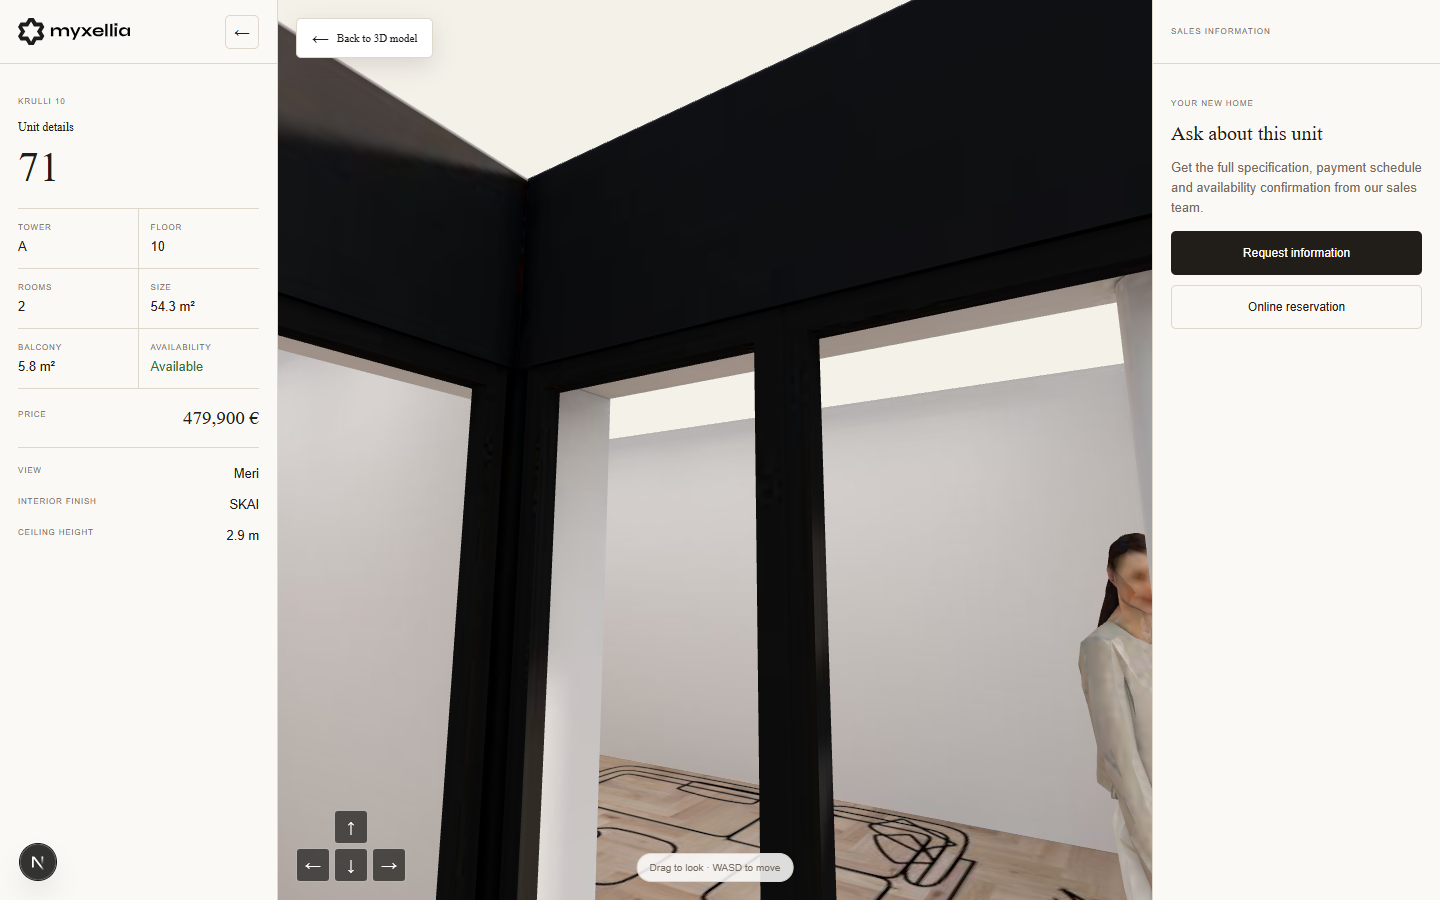
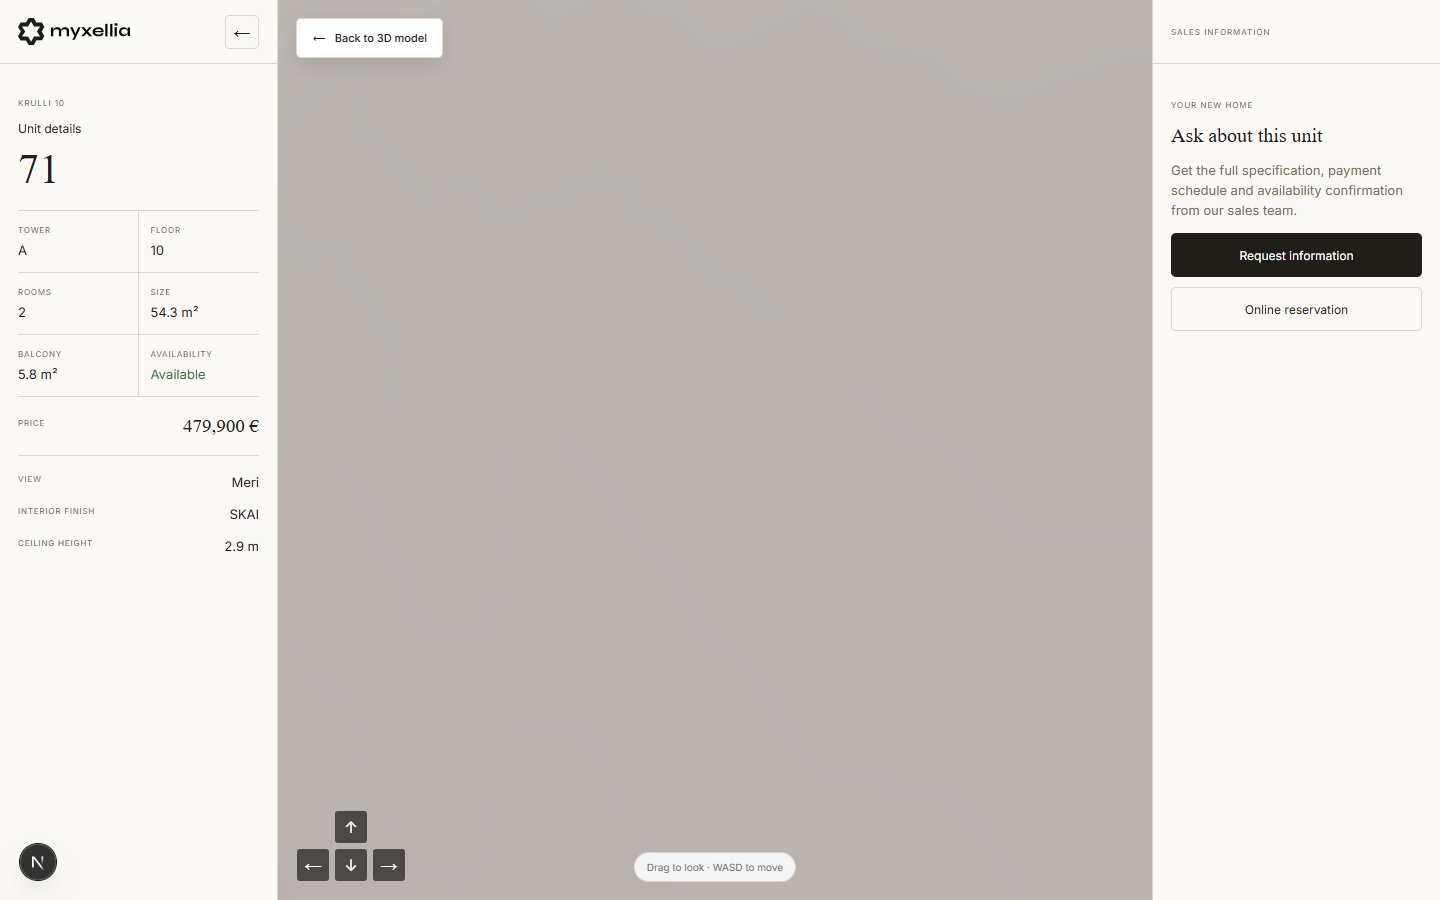
improved floor navigation

diff --git a/components/unit-model/UnitModelViewer.tsx b/components/unit-model/UnitModelViewer.tsx
@@ -175,7 +175,9 @@ export function UnitModelViewer({ asset }: { asset: UnitAsset }) {
 
     const pressed = new Set<string>();
     const collisionMeshes: THREE.Mesh[] = [];
+    const walkSurfaceMeshes: THREE.Mesh[] = [];
     const raycaster = new THREE.Raycaster();
+    const pointer = new THREE.Vector2();
     const clock = new THREE.Clock();
     const overviewPosition = new THREE.Vector3();
     const overviewTarget = new THREE.Vector3();
@@ -183,12 +185,28 @@ export function UnitModelViewer({ asset }: { asset: UnitAsset }) {
     const tourLookTarget = new THREE.Vector3();
     const modelCenter = new THREE.Vector3();
     const modelBounds = new THREE.Box3();
+    const destinationRing = new THREE.Mesh(
+      new THREE.RingGeometry(0.21, 0.3, 48),
+      new THREE.MeshBasicMaterial({ color: 0xffffff, transparent: true, opacity: 1, side: THREE.DoubleSide, depthTest: false, depthWrite: false, toneMapped: false }),
+    );
+    destinationRing.rotation.x = -Math.PI / 2;
+    destinationRing.renderOrder = 20;
+    destinationRing.visible = false;
+    scene.add(destinationRing);
     let tourEnabled = false;
     let yaw = 0;
     let pitch = 0;
     let dragging = false;
+    let pointerMoved = false;
     let pointerX = 0;
     let pointerY = 0;
+    let pointerDownX = 0;
+    let pointerDownY = 0;
+    let traveling = false;
+    let travelStartedAt = 0;
+    let travelDuration = 0;
+    const travelFrom = new THREE.Vector3();
+    const travelTo = new THREE.Vector3();
 
     const updateTourRotation = () => {
       camera.rotation.order = "YXZ";
@@ -209,6 +227,8 @@ export function UnitModelViewer({ asset }: { asset: UnitAsset }) {
       const direction = keyDirection(event.key);
       if (!direction) return;
       event.preventDefault();
+      traveling = false;
+      destinationRing.visible = false;
       pressed.add(direction);
     };
     const onKeyUp = (event: KeyboardEvent) => {
@@ -218,12 +238,42 @@ export function UnitModelViewer({ asset }: { asset: UnitAsset }) {
     const onPointerDown = (event: PointerEvent) => {
       if (!tourEnabled) return;
       dragging = true;
+      pointerMoved = false;
       pointerX = event.clientX;
       pointerY = event.clientY;
+      pointerDownX = event.clientX;
+      pointerDownY = event.clientY;
       renderer.domElement.setPointerCapture(event.pointerId);
     };
+    const floorPointAt = (event: PointerEvent) => {
+      const bounds = renderer.domElement.getBoundingClientRect();
+      pointer.set(((event.clientX - bounds.left) / bounds.width) * 2 - 1, -((event.clientY - bounds.top) / bounds.height) * 2 + 1);
+      raycaster.setFromCamera(pointer, camera);
+      const normalMatrix = new THREE.Matrix3();
+      const hit = raycaster.intersectObjects(walkSurfaceMeshes, false)[0];
+      if (!hit?.face) return undefined;
+      normalMatrix.getNormalMatrix(hit.object.matrixWorld);
+      const normal = hit.face.normal.clone().applyMatrix3(normalMatrix).normalize();
+      const namedFloor = /(floor|tiles)/i.test(hit.object.name);
+      const nearFloorLevel = hit.point.y <= modelBounds.min.y + 0.35;
+      return normal.y > 0.65 && (namedFloor || nearFloorLevel) ? hit.point : undefined;
+    };
+    const updateFloorDestination = (event: PointerEvent) => {
+      const point = floorPointAt(event);
+      destinationRing.visible = Boolean(point);
+      renderer.domElement.style.cursor = point ? "pointer" : "grab";
+      if (point) destinationRing.position.set(point.x, point.y + 0.018, point.z);
+      return point;
+    };
     const onPointerMove = (event: PointerEvent) => {
-      if (!tourEnabled || !dragging) return;
+      if (!tourEnabled) return;
+      if (!dragging) {
+        updateFloorDestination(event);
+        return;
+      }
+      if (Math.hypot(event.clientX - pointerDownX, event.clientY - pointerDownY) > 5) pointerMoved = true;
+      destinationRing.visible = false;
+      renderer.domElement.style.cursor = "grabbing";
       yaw -= (event.clientX - pointerX) * 0.004;
       pitch -= (event.clientY - pointerY) * 0.003;
       pitch = THREE.MathUtils.clamp(pitch, -Math.PI * 0.47, Math.PI * 0.47);
@@ -232,8 +282,30 @@ export function UnitModelViewer({ asset }: { asset: UnitAsset }) {
       updateTourRotation();
     };
     const onPointerUp = (event: PointerEvent) => {
+      const shouldTravel = tourEnabled && !pointerMoved && event.button === 0;
       dragging = false;
       if (renderer.domElement.hasPointerCapture(event.pointerId)) renderer.domElement.releasePointerCapture(event.pointerId);
+      if (!shouldTravel) {
+        updateFloorDestination(event);
+        return;
+      }
+      const point = updateFloorDestination(event);
+      if (!point) return;
+      pressed.clear();
+      travelFrom.copy(camera.position);
+      travelTo.set(
+        THREE.MathUtils.lerp(travelFrom.x, point.x, 0.8),
+        point.y + 1.62,
+        THREE.MathUtils.lerp(travelFrom.z, point.z, 0.8),
+      );
+      const distance = travelFrom.distanceTo(travelTo);
+      if (distance < 0.25) return;
+      travelDuration = THREE.MathUtils.clamp(distance / 3, 0.38, 1.05) * 1000;
+      travelStartedAt = performance.now();
+      traveling = true;
+    };
+    const onPointerLeave = () => {
+      if (!dragging) destinationRing.visible = false;
     };
 
     window.addEventListener("keydown", onKeyDown);
@@ -242,6 +314,7 @@ export function UnitModelViewer({ asset }: { asset: UnitAsset }) {
     renderer.domElement.addEventListener("pointermove", onPointerMove);
     renderer.domElement.addEventListener("pointerup", onPointerUp);
     renderer.domElement.addEventListener("pointercancel", onPointerUp);
+    renderer.domElement.addEventListener("pointerleave", onPointerLeave);
 
     const resize = () => {
       const width = container.clientWidth;
@@ -288,6 +361,7 @@ export function UnitModelViewer({ asset }: { asset: UnitAsset }) {
             object.visible = false;
             return;
           }
+          walkSurfaceMeshes.push(object);
           if (/_collide/i.test(object.name) && !/(floor|tiles|aptglaz)/i.test(object.name)) collisionMeshes.push(object);
           if (atlas) {
             if (/aptglaz/i.test(object.name)) object.material = fallbackMaterial("glass");
@@ -324,6 +398,8 @@ export function UnitModelViewer({ asset }: { asset: UnitAsset }) {
           overviewTarget.copy(controls.target);
           controls.enabled = false;
           tourEnabled = true;
+          traveling = false;
+          destinationRing.visible = false;
           pressed.clear();
           camera.fov = 68;
           camera.near = 0.04;
@@ -338,7 +414,10 @@ export function UnitModelViewer({ asset }: { asset: UnitAsset }) {
         };
         leaveTour.current = () => {
           tourEnabled = false;
+          traveling = false;
           dragging = false;
+          destinationRing.visible = false;
+          renderer.domElement.style.cursor = "grab";
           pressed.clear();
           camera.fov = 24;
           camera.near = 0.05;
@@ -363,6 +442,15 @@ export function UnitModelViewer({ asset }: { asset: UnitAsset }) {
     renderer.setAnimationLoop(() => {
       const delta = Math.min(clock.getDelta(), 0.05);
       if (tourEnabled) {
+        if (traveling) {
+          const progress = THREE.MathUtils.clamp((performance.now() - travelStartedAt) / travelDuration, 0, 1);
+          const eased = progress * progress * (3 - 2 * progress);
+          camera.position.lerpVectors(travelFrom, travelTo, eased);
+          if (progress >= 1) {
+            traveling = false;
+            destinationRing.visible = false;
+          }
+        }
         const forwardAmount = Number(pressed.has("forward")) - Number(pressed.has("backward"));
         const rightAmount = Number(pressed.has("right")) - Number(pressed.has("left"));
         if (forwardAmount || rightAmount) {
@@ -393,6 +481,7 @@ export function UnitModelViewer({ asset }: { asset: UnitAsset }) {
       renderer.domElement.removeEventListener("pointermove", onPointerMove);
       renderer.domElement.removeEventListener("pointerup", onPointerUp);
       renderer.domElement.removeEventListener("pointercancel", onPointerUp);
+      renderer.domElement.removeEventListener("pointerleave", onPointerLeave);
       controls.dispose();
       scene.traverse((object) => {
         if (!(object instanceof THREE.Mesh)) return;
